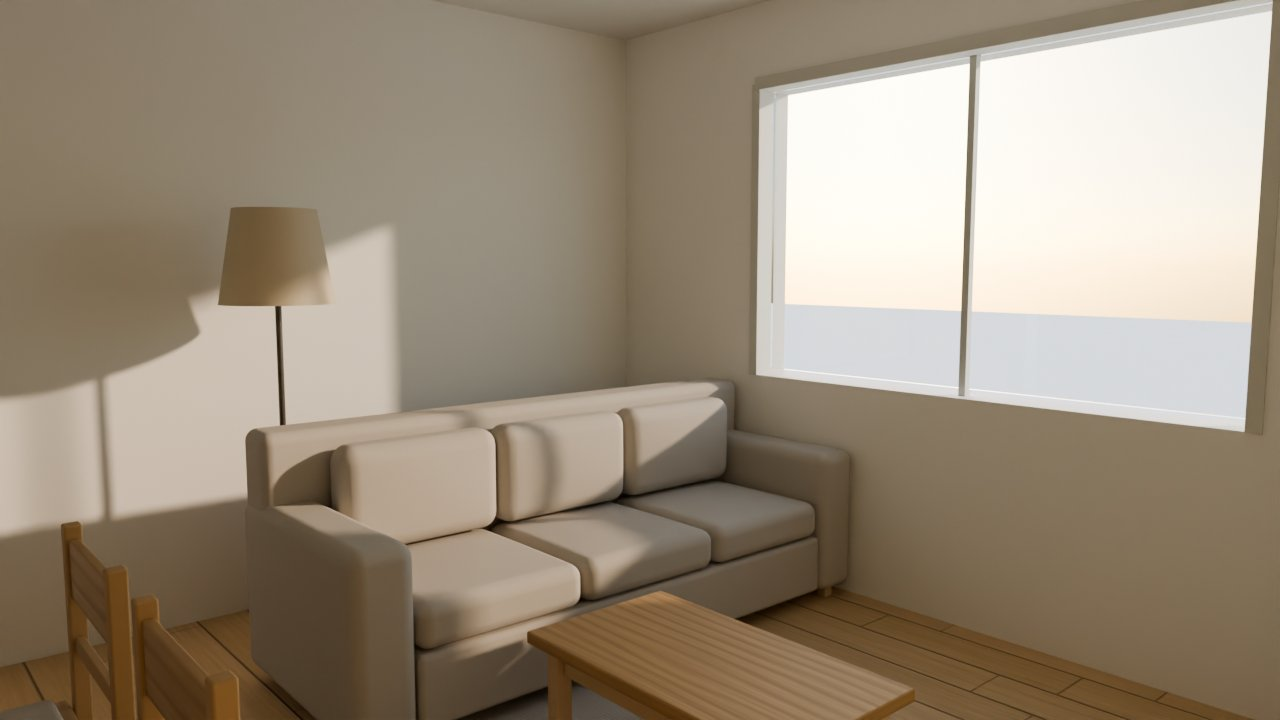
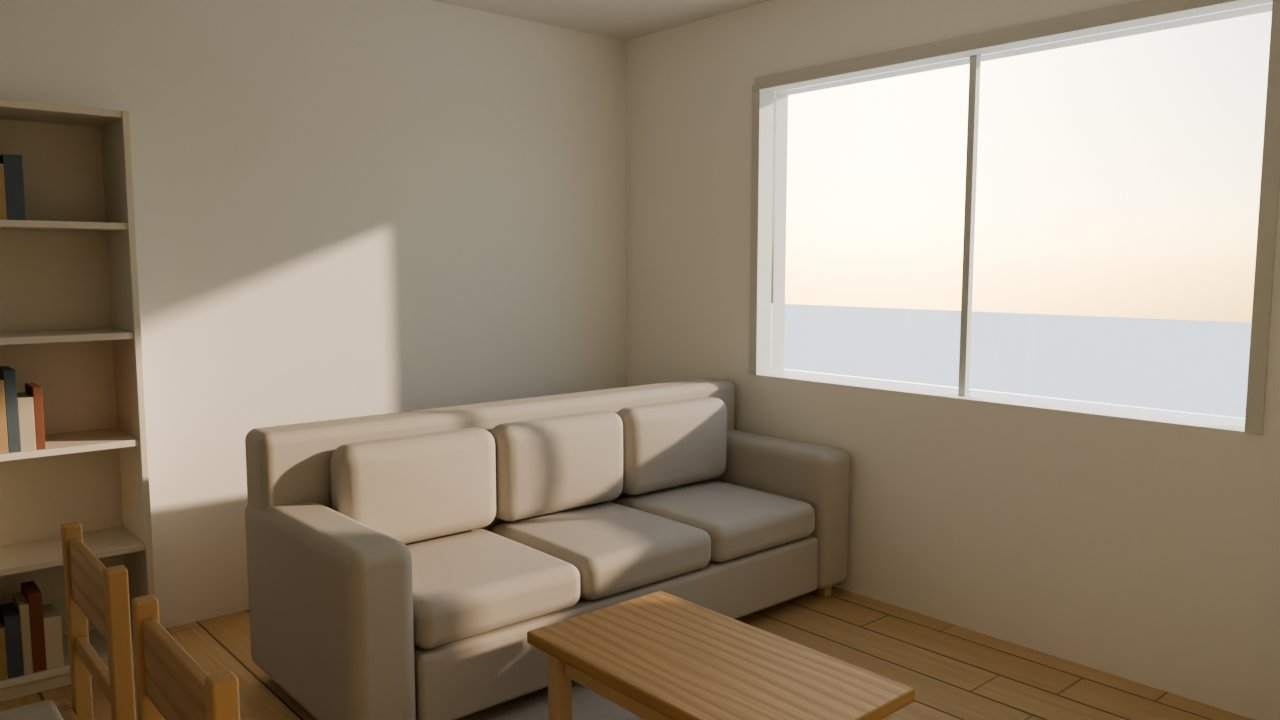
feat: parametric desk, nightstand and bookshelf
Desk with drawer pedestal and modesty panel; new nightstand and bookshelf
kinds built from parts (drawers with bar handles, shelves with rows of
books), registered in types, validation, catalogue and product sources.
The demo plan gains two nightstands and a living-room bookshelf; the four
afternoon demo views are re-rendered in Cycles and WebGL.

Changed region(s): [[0.0, 0.1222, 0.2812, 1.0], [0.2188, 0.5194, 0.25, 0.5806]]

diff --git a/src/lib/furnitureParts.ts b/src/lib/furnitureParts.ts
@@ -124,6 +124,89 @@ export function tableParts(w:number,d:number,h:number):FurniturePart[]{
 }
 
 /**
+ * Desk inside `w × d × h` (seat on the +z side): wood-grain top, a side panel on the left, a
+ * drawer pedestal on the right (three drawers when tall enough, else two, with horizontal bar
+ * handles) and a modesty panel at the back between them, under the top.
+ */
+export function deskParts(w:number,d:number,h:number):FurniturePart[]{
+  const top=.03,under=h-top,panel=.022,door=.018,back=-d/2+.02,face=d/2-.02;
+  const pw=clamp(w*.36,.3,.42),px=w/2-pw/2,body=face-door-.002-back;
+  const parts:FurniturePart[]=[
+    part('Tablero',[w,top,d],0,under,0,{color:'item',surface:'woodgrain',bevel:.006}),
+    part('Costado',[panel,under,face-back],-w/2+panel/2,0,(face+back)/2,{color:'item',bevel:.004}),
+    part('Cajonera',[pw,under,body],px,0,back+body/2,{color:'item',bevel:.004}),
+  ];
+  const modesty=w-panel-pw;
+  if(modesty>.05)parts.push(part('Faldón trasero',[modesty,Math.min(.35,under*.45),.018],(-w/2+panel+w/2-pw)/2,under-Math.min(.35,under*.45),back+.03,{color:'item',bevel:.003}));
+  const y0=.04,span=under-.03-y0,count=span>.45?3:2,drawer=(span-(count-1)*HINGE_GAP)/count;
+  for(let i=0;i<count;i++){
+    const bottom=y0+i*(drawer+HINGE_GAP);
+    parts.push(part(`Cajón ${i+1}`,[pw-2*HINGE_GAP,drawer,door],px,bottom,face-door/2,{color:'item',surface:'woodgrain',bevel:.003}));
+    parts.push(...barHandle(`Tirador ${i+1}`,px,bottom+drawer-.045,Math.min(.16,pw*.5),face,d/2-.002,true));
+  }
+  return parts;
+}
+
+/**
+ * Bedside table inside `w × d × h`: four short wooden feet, a carcass with one or two drawers
+ * (two when the front is taller than 30 cm) carrying horizontal bar handles, and a wood-grain
+ * top that defines the full footprint and height.
+ */
+export function nightstandParts(w:number,d:number,h:number):FurniturePart[]{
+  const top=.025,leg=.035,feet=clamp(h*.2,.06,.14),under=h-top,door=.018,back=-d/2+.01,face=d/2-.02;
+  const bw=w-.02,body=face-door-.002-back,zc=back+body/2;
+  const parts:FurniturePart[]=[
+    part('Tablero',[w,top,d],0,under,0,{color:'item',surface:'woodgrain',bevel:.005}),
+    part('Cuerpo',[bw,under-feet,body],0,feet,zc,{color:'item',bevel:.004}),
+  ];
+  const lx=bw/2-.02-leg/2,lz=body/2-.02-leg/2;
+  for(const x of [-1,1])for(const z of [-1,1])parts.push(part(`Pata ${x} ${z}`,[leg,feet,leg],x*lx,0,zc+z*lz,{color:'wood',bevel:.004}));
+  const span=under-feet-2*HINGE_GAP,count=span>.3?2:1,drawer=(span-(count-1)*HINGE_GAP)/count;
+  for(let i=0;i<count;i++){
+    const bottom=feet+HINGE_GAP+i*(drawer+HINGE_GAP);
+    parts.push(part(`Cajón ${i+1}`,[bw-2*HINGE_GAP,drawer,door],0,bottom,face-door/2,{color:'item',surface:'woodgrain',bevel:.003}));
+    parts.push(...barHandle(`Tirador ${i+1}`,0,bottom+drawer/2,Math.min(.12,bw*.4),face,d/2-.002,true));
+  }
+  return parts;
+}
+
+const BOOK_COLORS=['#7d8a7a','#b9a07a','#5e6b78','#c9bfae','#8c5e4a','#d7cfbf','#46504a'];
+
+/**
+ * Open bookshelf inside `w × d × h`: full-height side panels, a recessed plinth, top, bottom
+ * and evenly spaced shelves about every 36 cm, a thin back panel and rows of books on
+ * alternate shelves (deterministic sizes and colours, always clear of the shelf above).
+ */
+export function bookshelfParts(w:number,d:number,h:number):FurniturePart[]{
+  const panel=.022,plinth=.07,back=.008,inner=w-2*panel,sd=d-.01-back,sz=-d/2+back+sd/2;
+  const parts:FurniturePart[]=[
+    part('Costado izquierdo',[panel,h,d],-w/2+panel/2,0,0,{color:'item',bevel:.003}),
+    part('Costado derecho',[panel,h,d],w/2-panel/2,0,0,{color:'item',bevel:.003}),
+    part('Zócalo',[inner,plinth,.018],0,0,d/2-.04,{color:'item',bevel:.002}),
+    part('Trasera',[inner,h-plinth-panel,back],0,plinth,-d/2+back/2,{color:'item',bevel:0}),
+    part('Base',[inner,panel,sd],0,plinth,sz,{color:'item',bevel:.002}),
+    part('Techo',[inner,panel,sd],0,h-panel,sz,{color:'item',bevel:.002}),
+  ];
+  const free=Math.max(0,h-plinth-2*panel),bays=clamp(Math.round(free/.36),1,8);
+  const gap=(free-(bays-1)*panel)/bays;
+  for(let i=1;i<bays;i++)parts.push(part(`Balda ${i}`,[inner,panel,sd],0,plinth+panel+i*gap+(i-1)*panel,sz,{color:'item',bevel:.002}));
+  let seed=0;
+  for(let bay=0;bay<bays;bay+=2){
+    const floor=plinth+panel+bay*(gap+panel),room=gap-.03;
+    if(room<.12)continue;
+    const end=-inner/2+inner*.62;
+    let x=-inner/2+.02;
+    while(x<end){
+      const k=seed++,thick=.025+(k*7%5)*.006,tall=Math.min(room,.17+(k*5%4)*.03),deep=Math.min(sd-.02,.15+(k*3%3)*.02);
+      if(x+thick>inner/2-.02)break;
+      parts.push(part(`Libro ${bay+1}.${k}`,[thick,tall,deep],x+thick/2,floor,sz+sd/2-.015-deep/2,{color:BOOK_COLORS[k%BOOK_COLORS.length],bevel:.002}));
+      x+=thick;
+    }
+  }
+  return parts;
+}
+
+/**
  * Kitchen island inside `w × d × h`: worktop over the whole footprint, a carcass that leaves a
  * knee space for stools on the +z side, door fronts on the -z (kitchen) side and a recessed plinth.
  */

diff --git a/src/components/Scene3D.tsx b/src/components/Scene3D.tsx
@@ -16,7 +16,7 @@ import { defaultStudio, objectCamera, physicalProperties, studioSubject } from '
 import { textureMapsPending, useTextureLibraryRevision } from '../lib/textureCache';
 import { heightToNormal, surfaceMaps, type SurfaceKind } from '../lib/surfaceTextures';
 import { latheGeometry, physicalBox, type Crown, type Profile } from '../lib/boxGeometry';
-import { bedParts, chairParts, fridgeParts, islandParts, kitchenParts, lampParts, plantPotParts, plantSoilHeight, showerParts, sinkParts, sofaParts, tableParts, toiletParts, wardrobeParts, type FurniturePart } from '../lib/furnitureParts';
+import { bedParts, chairParts, bookshelfParts, deskParts, fridgeParts, islandParts, kitchenParts, lampParts, nightstandParts, plantPotParts, plantSoilHeight, showerParts, sinkParts, sofaParts, tableParts, toiletParts, wardrobeParts, type FurniturePart } from '../lib/furnitureParts';
 import { plantGeometry, seedFrom } from '../lib/plantGeometry';
 const SurfaceContext=createContext<string|undefined>(undefined);
 function textureProps(kind:SurfaceKind){const {map,normalMap,roughnessMap,metalnessMap}=surfaceMaps(kind);return {map,normalMap,roughnessMap,metalnessMap};}
@@ -249,7 +249,10 @@ function FurnitureShape({item,project,selected}:{item:Furniture;project:Project;
   switch(item.kind){
     case 'bed':case 'single-bed':return <Parts parts={bedParts(w,d)} item={item} wood={wood}/>;
     case 'sofa':return <Parts parts={sofaParts(w,d)} item={item} wood={wood}/>;
-    case 'table':case 'desk':return <Parts parts={tableParts(w,d,h)} item={item} wood={wood}/>;
+    case 'table':return <Parts parts={tableParts(w,d,h)} item={item} wood={wood}/>;
+    case 'desk':return <Parts parts={deskParts(w,d,h)} item={item} wood={wood}/>;
+    case 'nightstand':return <Parts parts={nightstandParts(w,d,h)} item={item} wood={wood}/>;
+    case 'bookshelf':return <Parts parts={bookshelfParts(w,d,h)} item={item} wood={wood}/>;
     case 'island':return <Parts parts={islandParts(w,d,h)} item={item} wood={wood}/>;
     case 'chair':return <Parts parts={chairParts(w,d,h)} item={item} wood={wood}/>;
     case 'wardrobe':return <Parts parts={wardrobeParts(w,d,h)} item={item} wood={wood}/>;

diff --git a/src/types.ts b/src/types.ts
@@ -4,7 +4,7 @@ export type FloorFinish = 'oak' | 'ash' | 'walnut' | 'stone' | 'terrazzo' | 'con
 export type Room = { id: string; name: string; kind: RoomKind; x: number; y: number; w: number; d: number; floor: FloorFinish; materialId?: string; vertices?: Point[]; holes?: Point[][] };
 export type Wall = { id: string; a: Point; b: Point; thickness: number; outer?: boolean; materialId?: string };
 export type Opening = { id: string; wallId: string; kind: 'door' | 'window'; offset: number; width: number; height: number; sill: number };
-export type FurnitureKind = 'sofa' | 'bed' | 'single-bed' | 'table' | 'chair' | 'wardrobe' | 'desk' | 'kitchen' | 'island' | 'sink' | 'fridge' | 'toilet' | 'shower' | 'plant' | 'lamp' | 'rug' | 'model';
+export type FurnitureKind = 'sofa' | 'bed' | 'single-bed' | 'table' | 'chair' | 'wardrobe' | 'desk' | 'nightstand' | 'bookshelf' | 'kitchen' | 'island' | 'sink' | 'fridge' | 'toilet' | 'shower' | 'plant' | 'lamp' | 'rug' | 'model';
 export type ModelFinish = { color: string; roughness: number; metalness: number; materialName?: string; materialId?: string };
 export type Furniture = { id: string; kind: FurnitureKind; name: string; x: number; y: number; w: number; d: number; h: number; rotation: number; color: string; unitPrice?: number; assetId?: string; productId?: string; productSource?: ProductAttribution; materialId?: string; module?: ModuleSettings; modelData?: string; modelUpAxis?: 'Y' | 'Z' | 'X'; modelElevation?: number; modelOffsetX?: number; modelOffsetZ?: number; modelFinish?: ModelFinish; modelFinishes?: ModelFinish[] };
 export type Palette = { walls: string; accent: string; wood: string; textile: string; metal: string };

diff --git a/src/__tests__/furniture-parts.test.ts b/src/__tests__/furniture-parts.test.ts
@@ -1,5 +1,5 @@
 import { describe, expect, it } from 'vitest';
-import { FACE_GAP, bedParts, chairParts, cushionCount, fridgeParts, fronts, islandParts, kitchenParts, lampParts, partsBounds, plantPotParts, plantSoilHeight, showerParts, sinkParts, sofaParts, tableParts, toiletParts, wardrobeParts } from '../lib/furnitureParts';
+import { FACE_GAP, bedParts, bookshelfParts, chairParts, cushionCount, deskParts, fridgeParts, fronts, islandParts, kitchenParts, lampParts, nightstandParts, partsBounds, plantPotParts, plantSoilHeight, showerParts, sinkParts, sofaParts, tableParts, toiletParts, wardrobeParts } from '../lib/furnitureParts';
 import { plantGeometry, seedFrom } from '../lib/plantGeometry';
 
 const overlapArea=(a:{position:number[];size:number[]},b:{position:number[];size:number[]},axis:number)=>{
@@ -50,6 +50,9 @@ describe('bedParts', () => {
 const builders={
   wardrobe:[wardrobeParts,[[1.5,.62,2.25],[.6,.6,2],[3,.65,2.4]]],
   table:[tableParts,[[1.5,.85,.75],[.9,.5,.4],[1.2,.6,.76]]],
+  desk:[deskParts,[[1,.5,.75],[1.4,.7,.76],[.9,.5,.74],[1.6,.8,.6]]],
+  nightstand:[nightstandParts,[[.45,.38,.52],[.6,.45,.6],[.35,.3,.4]]],
+  bookshelf:[bookshelfParts,[[.8,.32,1.9],[1.2,.4,2.2],[.6,.25,.9],[.4,.3,.35]]],
   island:[islandParts,[[1.5,.8,.9],[2.4,1,.9]]],
   chair:[chairParts,[[.52,.55,.85],[.45,.5,.8]]],
   kitchen:[kitchenParts,[[2.6,.65,.9],[1.2,.6,.9]]],

diff --git a/src/data/defaultProject.ts b/src/data/defaultProject.ts
@@ -53,6 +53,8 @@ export const demoProject: Project = {
     furniture('kitchen-1','kitchen','Cocina lineal',1.43,5.62,2.7,.65,.9,180,'#ece7dd'),
     furniture('fridge-1','fridge','Frigorífico',3.38,5.61,.65,.65,1.9,180,'#eeeae4'),
     furniture('bed-main','bed','Cama doble',8.7,1.42,1.6,2,.55,0,'#e0d5c4'),
+    furniture('night-main-l','nightstand','Mesilla izquierda',7.65,.62,.4,.36,.5,0,'#d3bb98'),
+    furniture('night-main-r','nightstand','Mesilla derecha',9.7,.62,.4,.36,.5,0,'#d3bb98'),
     furniture('ward-main','wardrobe','Armario principal',7.38,2.6,1,.6,2.15,180,'#e5e0d6'),
     furniture('bed-2','single-bed','Cama individual',5.14,1.36,.9,1.9,.55,0,'#e3d8cb'),
     furniture('desk-2','desk','Escritorio',6.15,.45,1,.5,.75,0,'#c8a781'),
@@ -63,6 +65,7 @@ export const demoProject: Project = {
     furniture('sink-2','sink','Lavabo 2',8.705,5.03,.6,.5,.84,270,'#ecece8'),
     furniture('toilet-2','toilet','Inodoro 2',8.755,5.56,.4,.6,.65,270,'#f7f6f3'),
     furniture('shower-2','shower','Ducha 2',9.51,5.46,.8,.9,2,180,'#f0eeeb'),
+    furniture('shelf-1','bookshelf','Estantería',.27,2.9,.8,.32,1.9,270,'#e6e0d5'),
     furniture('plant-1','plant','Ficus',3.6,.45,.5,.5,1.2,0,'#5f8261'),
   ],
 };

diff --git a/src/lib/validation.ts b/src/lib/validation.ts
@@ -10,7 +10,7 @@ const material=(a:unknown)=>a===undefined||(typeof a==='string'&&a.length<=120);
 const vector=(a:unknown)=>Array.isArray(a)&&a.length===3&&a.every(n=>num(n,-500,500));
 const kinds:Set<RoomKind>=new Set(['living','bedroom','bathroom','hall']);
 const finishes:Set<FloorFinish>=new Set(['oak','ash','walnut','stone','terrazzo','concrete']);
-const furnitureKinds:Set<FurnitureKind>=new Set(['sofa','bed','single-bed','table','chair','wardrobe','desk','kitchen','island','sink','fridge','toilet','shower','plant','lamp','rug','model']);
+const furnitureKinds:Set<FurnitureKind>=new Set(['sofa','bed','single-bed','table','chair','wardrobe','desk','nightstand','bookshelf','kitchen','island','sink','fridge','toilet','shower','plant','lamp','rug','model']);
 const validModelFinish=(f:unknown)=>object(f)&&color(f.color)&&num(f.roughness,0,1)&&num(f.metalness,0,1)&&material(f.materialId)&&(f.materialName===undefined||(typeof f.materialName==='string'&&f.materialName.length<=120));
 /** Strict structural validation; geometric feasibility is reported separately. */
 export function isProject(a:unknown):a is Project{

diff --git a/src/data/catalog.ts b/src/data/catalog.ts
@@ -9,6 +9,8 @@ export const catalog: CatalogItem[] = [
   {kind:'single-bed', name:'Cama individual',w:.9,d:1.9,h:.55,color:'#e2d7ca',icon:'▣',category:'Dormitorio'},
   {kind:'wardrobe', name:'Armario',w:1.5,d:.62,h:2.25,color:'#e4dfd4',icon:'▥',category:'Dormitorio'},
   {kind:'desk', name:'Escritorio',w:1.2,d:.6,h:.76,color:'#c5a27b',icon:'▤',category:'Dormitorio'},
+  {kind:'nightstand', name:'Mesilla de noche',w:.45,d:.38,h:.52,color:'#d6bf9e',icon:'▭',category:'Dormitorio'},
+  {kind:'bookshelf', name:'Estantería',w:.8,d:.32,h:1.9,color:'#e3ddd2',icon:'☰',category:'Salón'},
   {kind:'kitchen', name:'Módulo de cocina',w:2.6,d:.65,h:.9,color:'#ede9e1',icon:'▤',category:'Cocina'},
   {kind:'island', name:'Isla de cocina',w:1.5,d:.8,h:.9,color:'#e8e4dc',icon:'▦',category:'Cocina'},
   {kind:'sink', name:'Mueble lavabo',w:.8,d:.5,h:.85,color:'#ede9e1',icon:'◍',category:'Baño'},

diff --git a/src/data/productCatalog.ts b/src/data/productCatalog.ts
@@ -13,8 +13,8 @@ export type ProductSource = {
   modelUrl?: string;
 };
 export const productSources: ProductSource[] = [
-  ['sofa','Salón'],['table','Salón'],['chair','Salón'],['rug','Salón'],
-  ['bed','Dormitorio'],['single-bed','Dormitorio'],['wardrobe','Dormitorio'],['desk','Dormitorio'],
+  ['sofa','Salón'],['table','Salón'],['chair','Salón'],['rug','Salón'],['bookshelf','Salón'],
+  ['bed','Dormitorio'],['single-bed','Dormitorio'],['wardrobe','Dormitorio'],['desk','Dormitorio'],['nightstand','Dormitorio'],
   ['kitchen','Cocina'],['island','Cocina'],['fridge','Cocina'],
   ['sink','Baño'],['toilet','Baño'],['shower','Baño'],
   ['plant','Decoración'],['lamp','Decoración'],

diff --git a/PROJECT_STATUS.md b/PROJECT_STATUS.md
@@ -20,8 +20,9 @@ Repositorio: `alexisalbaceterodriguez-cmd/project-house-rendering`; rama de refe
 - **Mobiliario paramétrico por piezas y luz diurna en recintos sin ventana (20/11):** `src/lib/furnitureParts.ts` construye, dentro de la huella y la altura del plano, sofá (zócalo, patas, brazos, cojines de asiento y respaldo según anchura con holgura de 1 cm), cama (canapé, patas, colchón, cabecero, almohadas, edredón), armario (carcasa, puertas con tiradores), mesa, silla, isla, cocina lineal (módulos, encimera, placa, fregadero, grifo), frigorífico, inodoro (taza torneada, cisterna, asiento, tapa, pulsador), mueble de lavabo suspendido (cajones, lavabo sobre encimera, grifo), ducha (plato, desagüe, mamparas de vidrio, columna, rociador), lámpara de pie (pantalla con rol `lampshade`) y maceta; las piezas torneadas usan `latheGeometry` (`boxGeometry.ts`) y el follaje de la planta (`plantGeometry.ts`) es determinista por id y se recorta a la huella y la altura. El GLB del render se exporta del mismo grafo, así que Cycles recibe las mismas mallas. Proyecto de ejemplo: los muebles contra muro miran hacia la estancia (los proyectos guardados conservan sus giros) y ambos baños se redistribuyen para que la puerta abra libre (ducha al fondo). **Recintos sin ventana:** los presets tarde/día envían `lighting.litRooms` (estancias sin ninguna ventana propia, 4 W/m², validadas contra los ids de recintos en el contrato) y Blender añade una luz de área de techo a 5000 K; noche y estudio mandan `[]`. En la demo se encienden vestíbulo (24 W) y baños (13 W): el baño ya no sale negro. Demos misma cámara Cycles/WebGL (tarde, 256 muestras, RTX 5070 OptiX): salón 9,42 s / 10,45 s, luminancia 0,535; dormitorio 10,04 s / 11,06 s, 0,400; baño 1 16,42 s / 17,66 s, 0,637; 0 % recortado en las tres (salón y dormitorio renderizados antes de la luz del vestíbulo). Validación local: `tsc -b`, 173 unitarias (nuevas `furniture-parts.test.ts`: piezas dentro de la envolvente; `box-geometry` torneado; `render-package` litRooms), 23 Python del motor, build y E2E `cycles-package`, `product`, `studio-render` y editor (25/25; `cycles-package` repetido tras litRooms). Publicado en `bc8292624872ca7b5e518740c9daa86cc1bac35f`; CI [44802683703](https://github.com/alexisalbaceterodriguez-cmd/project-house-rendering/actions/runs/44802683703) (job 136518610197) **success**: 173 unitarias, 23 Python (humo Blender omitido sin Blender) y 42/42 E2E. Límites: piezas geométricas simplificadas, sin simulación de tejido, sin translucidez de hojas ni pantallas, texturas sintéticas; no es fidelidad fotográfica.
 - **Hojas y pantallas translúcidas en Cycles (20/11):** `atelier_render.py` combina los materiales `atelier:leaf` y `atelier:lampshade` con un BSDF Translucent de su color base (enlaces de textura incluidos), sin tocar geometría ni GLB: la hoja **añade** transmisión al 60 % del color base sobre su reflexión y la pantalla **mezcla** un 40 % hacia transmisión (una tela blanca no supera 1). Primer intento descartado tras medirlo: mezclar un 30 % también en hojas oscurecía el follaje un 14 % con luz lateral. A/B misma cámara y escena (primer plano de la planta junto a la ventana, tarde): verde medio del follaje 0,125 → 0,161 (+29 %) frente a sin translucidez; la pantalla nocturna sigue brillando. `result.json` informa `materials.translucent` (3 en el salón: dos tonos de hoja + pantalla) y la prueba de humo con Blender lo comprueba con una pieza `atelier:leaf` nueva en el fixture. La planta del ejemplo pasa a x 3,6 / y 0,45, junto a la ventana: tras girar el sofá quedaba solapada 12 cm con él. Demos del salón re-renderizadas (distribuidor iluminado + translucidez): tarde 13,73 s / 15,06 s, luminancia 0,546; noche 15,59 s / 16,88 s, 0,566; 0 % recortado. 23 Python en local con humo Blender real. Publicado en 33e6e4aad7a675ce44d5442122a5afd39f3ccf2b; CI run [44804341915](https://github.com/alexisalbaceterodriguez-cmd/project-house-rendering/actions/runs/44804341915) (job 136524275669) **success**: 173 unitarias, 23 del motor y 42 E2E. Límite: BSDF de superficie fina, no dispersión subsuperficial medida.
 - **Cocina-comedor y plano de ejemplo corregido (20/11):** `kitchenParts` recorta la encimera en cuatro tramos alrededor de una cubeta de acero bajo encimera de 18 cm (fondo, cuatro paredes y desagüe torneado) y rebaja el módulo inferior bajo ella; la placa lleva cuatro zonas de inducción (anillos torneados) y el grifo es un cuerpo torneado con base, caño, boquilla y maneta lateral; todo dentro de la huella (envolvente y sin caras coplanarias en `furniture-parts.test.ts`). Al encuadrar la cocina aparecieron dos fallos reales del ejemplo: la puerta de entrada (muro sur, x 2,07–2,93) quedaba tapada por la cocina lineal (x 0,08–2,78) y la cama doble invadía 12 cm el armario. La entrada pasa al muro oeste del salón (y 4,1–4,9) y la cama a x 8,7; la nueva `demo-project.test.ts` exige 45 cm libres a ambos lados de cada puerta y ningún mueble solapado (salvo sillas bajo mesa). El ejemplo gana cuatro sillas de comedor y una ventana de 1 × 1 m sobre el fregadero (alféizar 1,10 m): sin ella la cocina, a 5 m de la única ventana, quedaba en penumbra (luminancia media 0,19 frente a 0,33). Re-renderizadas todas las demos con la misma cámara Cycles/WebGL (salón tarde y noche, dormitorio con luz del distribuidor y cámara nueva, baño y cocina-comedor nueva). Comprobado en local: 175 unitarias, build, smoke `cycles-package`. Commit `42057bda6339a58787768809c97def97a5c0c130`, CI [44806485884](https://github.com/alexisalbaceterodriguez-cmd/project-house-rendering/actions/runs/44806485884) (job 136531725477) completed/success: 175 unitarias, 23 pruebas Python del motor (humo Blender omitido) y 42 E2E Chromium. Límite visto: en la captura WebGL los metales (tiradores, grifo, cubeta) salían casi negros; en Cycles se leen como acero (corregido en el punto siguiente).
-- **Metales del visor WebGL calibrados (20/11):** la causa no era la carga del HDR: con iluminación día/noche el visor no tenía mapa de entorno (el `studio.hdr` solo se montaba en modo estudio; ninguna petición del HDR en la escena completa), así que un metal (metalness 0,7) no tenía nada que reflejar. La escena completa monta ahora el mismo HDR local como luz de entorno (0,28 de día, 0,08 de noche), rebaja ambiente y hemisférica (0,65/0,6 → 0,35/0,4 de día) para no lavar los difusos y da a los metales `envMapIntensity` 2,2. Misma cámara de la cocina-comedor: tiradores, grifo y cubeta se leen ahora como acero gris, como en Cycles; la luminancia media de la vista WebGL sube de 0,644 a 0,724 (paredes algo más blancas, más cerca del blanco cálido de Cycles). Las cuatro vistas `-webgl.jpg` de tarde se regeneraron con la misma cámara y escena (el render Cycles no cambia: el paquete es idéntico y el motor lo reutiliza). Unitarias (175), build y smoke `cycles-package` + `studio-render` (6/6) en local. Commit y CI: __SHA4__, __CI4__. Límite: el entorno es el HDR de estudio, no el exterior real de la vivienda; los reflejos son plausibles, no físicos.
-- **Siguiente tarea exacta:** texturas escaneadas CC0 donde aporten realismo (suelo de roble y tejido de sofá primero), que requieren permiso del usuario para la descarga; mientras tanto, completar piezas paramétricas pendientes (muebles altos opcionales de cocina cuando la altura del objeto lo permita, mesilla y estantería) con sus pruebas de envolvente y comparación visor/Cycles con la misma cámara.
+- **Metales del visor WebGL calibrados (20/11):** la causa no era la carga del HDR: con iluminación día/noche el visor no tenía mapa de entorno (el `studio.hdr` solo se montaba en modo estudio; ninguna petición del HDR en la escena completa), así que un metal (metalness 0,7) no tenía nada que reflejar. La escena completa monta ahora el mismo HDR local como luz de entorno (0,28 de día, 0,08 de noche), rebaja ambiente y hemisférica (0,65/0,6 → 0,35/0,4 de día) para no lavar los difusos y da a los metales `envMapIntensity` 2,2. Misma cámara de la cocina-comedor: tiradores, grifo y cubeta se leen ahora como acero gris, como en Cycles; la luminancia media de la vista WebGL sube de 0,644 a 0,724 (paredes algo más blancas, más cerca del blanco cálido de Cycles). Las cuatro vistas `-webgl.jpg` de tarde se regeneraron con la misma cámara y escena (el render Cycles no cambia: el paquete es idéntico y el motor lo reutiliza). Unitarias (175), build y smoke `cycles-package` + `studio-render` (6/6) en local. Commit y CI: `f84a271` (f84a2715b435ce14243c9f6a4abebabbaaff044f), run 44807850725 (job 136536426210) **success**: 175 unitarias, 23 Python y 42 E2E. Límite: el entorno es el HDR de estudio, no el exterior real de la vivienda; los reflejos son plausibles, no físicos.
+- **Escritorio, mesilla y estantería paramétricos (20/11):** `deskParts` (tablero veteado, costado, cajonera de 2–3 cajones con tiradores horizontales y faldón trasero), nuevo tipo `nightstand` (`nightstandParts`: patas de madera, cuerpo, 1–2 cajones y tablero) y nuevo tipo `bookshelf` (`bookshelfParts`: costados, zócalo retranqueado, trasera, baldas cada ~36 cm y filas de libros deterministas en baldas alternas, siempre por debajo de la balda superior). Registrados en tipos, validación, catálogo (Dormitorio/Salón) y fuentes de producto como geometría paramétrica original. El plano demo añade dos mesillas junto a la cama doble y una estantería en el muro oeste del salón (holguras de puertas y no solape comprobados por `demo-project.test.ts`). Pruebas de envolvente sin caras coplanarias para 4 escritorios, 3 mesillas y 4 estanterías (52 en `furniture-parts`), 186 unitarias, build y smoke `cycles-package` + `editor` (2/2) en local. Comparación visor/Cycles con la misma cámara (estantería desde el comedor, mesilla en primer plano): misma geometría, cajones, tiradores y libros en ambos. Las cuatro vistas demo de tarde de `render-engine/demo/` se regeneraron con el plano nuevo (Cycles 13,7–21,3 s en OptiX, 0 % recortado); la nocturna del salón es anterior. Commit y CI: __SHA5__, __CI5__. Límite: los libros son volúmenes de color, sin lomos impresos ni textura.
+- **Siguiente tarea exacta:** texturas escaneadas CC0 donde aporten realismo (suelo de roble y tejido de sofá primero), que requieren permiso del usuario para la descarga; mientras tanto, muebles altos opcionales de cocina cuando la altura del objeto lo permita (módulo propio con altura de colgado, sin alterar la envolvente de la bajera) con pruebas de envolvente y comparación visor/Cycles con la misma cámara.
 
 ## Estado anterior — presentación de interiores, 20/11/2026
 

diff --git a/render-engine/README.md b/render-engine/README.md
@@ -95,13 +95,13 @@ Calidades: `draft` 64, `standard` 256, `high` 1024 muestras con denoiser OpenIma
 
 | Preset | Imagen | Render | Total | Luminancia media | Recortado |
 |---|---|---|---|---|---|
-| Tarde (piezas, distribuidor iluminado, hojas y pantalla translúcidas) | `nordic-living-afternoon-cycles.jpg` vs `-webgl.jpg` | 13,74 s | 15,24 s | 0,555 | 0 % (antes 11,3 % sin window pull) |
-| Tarde, dormitorio principal | `nordic-bedroom-afternoon-cycles.jpg` vs `-webgl.jpg` | 14,46 s | 15,91 s | 0,494 | 0 % |
-| Tarde, baño 1 (sin ventana, luz de techo) | `nordic-bathroom-afternoon-cycles.jpg` vs `-webgl.jpg` | 20,86 s | 22,33 s | 0,637 | 0 % |
-| Tarde, cocina-comedor (ventana sobre el fregadero) | `nordic-kitchen-afternoon-cycles.jpg` vs `-webgl.jpg` | 15,76 s | 17,28 s | 0,329 | 0 % |
+| Tarde (piezas, distribuidor iluminado, hojas y pantalla translúcidas) | `nordic-living-afternoon-cycles.jpg` vs `-webgl.jpg` | 13,68 s | 15,53 s | 0,541 | 0 % (antes 11,3 % sin window pull) |
+| Tarde, dormitorio principal | `nordic-bedroom-afternoon-cycles.jpg` vs `-webgl.jpg` | 14,48 s | 16,24 s | 0,493 | 0 % |
+| Tarde, baño 1 (sin ventana, luz de techo) | `nordic-bathroom-afternoon-cycles.jpg` vs `-webgl.jpg` | 21,26 s | 22,99 s | 0,637 | 0 % |
+| Tarde, cocina-comedor (ventana sobre el fregadero) | `nordic-kitchen-afternoon-cycles.jpg` vs `-webgl.jpg` | 15,94 s | 17,67 s | 0,314 | 0 % |
 | Noche | `nordic-living-night-cycles.jpg` | 15,73 s | 17,24 s | 0,556 | 0 % |
 
-1280 × 720, 256 muestras, OptiX en RTX 5070 Laptop, Blender 4.5.16 LTS. La mesa de centro, la lámpara y el giro del sofá de la demo se añadieron en tiempo de ejecución; no forman parte del proyecto por defecto. Desde el 20/11 el sofá, la cama, la mesa, la silla y el armario tienen aristas redondeadas dentro de sus medidas exteriores (`src/lib/boxGeometry.ts`); el GLB lleva la misma malla que el visor. El mobiliario se compone de piezas paramétricas (`src/lib/furnitureParts.ts`): zócalo, brazos, respaldo y cojines de asiento y respaldo separados con holgura de 1 cm y tapa abombada; cabecero, canapé, colchón, almohadas y edredón dentro de la huella del plano. También armario (puertas con holgura, tiradores y zócalo), mesa, isla, silla, cocina lineal (muebles bajos, encimera recortada alrededor de una cubeta de acero bajo encimera con desagüe, placa de inducción con cuatro zonas marcadas y grifo torneado con caño sobre la cubeta; sin muebles altos, porque la huella del plano mide 0,9 m de alto), frigorífico, inodoro, mueble de lavabo suspendido con lavabo de sobre encimera, ducha con mampara y rociador, lámpara de pie y maceta; las piezas torneadas (taza, lavabo, grifería, pantalla, maceta) son sólidos de revolución (`latheGeometry`) y la planta tiene follaje generado de forma determinista a partir del id del objeto (`src/lib/plantGeometry.ts`), siempre dentro de la huella y la altura del plano. El frente de cada pieza mira a +z con giro 0; el proyecto de ejemplo gira los muebles apoyados en muros y=fondo o x=0 para que miren a la sala, pero los proyectos guardados conservan sus giros. Todas las cifras incluyen ya la luz de techo del distribuidor y la translucidez (el render pasó de unos 9–11 s a 14–21 s). El 20/11 se corrigieron dos fallos del plano de ejemplo que comprueba `src/__tests__/demo-project.test.ts` (ninguna puerta con muebles a menos de 45 cm y ningún mueble solapado salvo sillas bajo mesa): la puerta de entrada quedaba tapada por la cocina lineal y pasó al muro oeste del salón (y 4,1–4,9), y la cama doble invadía 12 cm el armario y se desplazó a x 8,7, con nueva cámara del dormitorio. El ejemplo gana cuatro sillas de comedor y una ventana de 1 × 1 m sobre el fregadero (alféizar 1,10 m), sin la cual la cocina, a 5 m de la única ventana del salón, quedaba en penumbra (luminancia media 0,19). En el salón asoman ahora las sillas en el borde izquierdo. Las vistas `-webgl.jpg` de tarde se regeneraron tras dar entorno HDR al visor: antes los metales (tiradores, grifo, cubeta) salían casi negros. La planta del ejemplo se movió junto a la ventana (x 3,6, y 0,45) porque tras girar el sofá quedaba solapada 12 cm con él; queda fuera de este encuadre. Siguen siendo volúmenes paramétricos: no hay costuras, arrugas ni caída de tela simuladas, y la translucidez es un BSDF de superficie fina, no dispersión subsuperficial medida.
+1280 × 720, 256 muestras, OptiX en RTX 5070 Laptop, Blender 4.5.16 LTS. La mesa de centro, la lámpara y el giro del sofá de la demo se añadieron en tiempo de ejecución; no forman parte del proyecto por defecto. Desde el 20/11 el proyecto por defecto incluye dos mesillas junto a la cama doble y una estantería en el muro oeste del salón, y las cuatro vistas de tarde (Cycles y WebGL) se regeneraron con ellas; la vista nocturna del salón es anterior. Desde el 20/11 el sofá, la cama, la mesa, la silla y el armario tienen aristas redondeadas dentro de sus medidas exteriores (`src/lib/boxGeometry.ts`); el GLB lleva la misma malla que el visor. El mobiliario se compone de piezas paramétricas (`src/lib/furnitureParts.ts`): zócalo, brazos, respaldo y cojines de asiento y respaldo separados con holgura de 1 cm y tapa abombada; cabecero, canapé, colchón, almohadas y edredón dentro de la huella del plano. También armario (puertas con holgura, tiradores y zócalo), mesa, isla, silla, cocina lineal (muebles bajos, encimera recortada alrededor de una cubeta de acero bajo encimera con desagüe, placa de inducción con cuatro zonas marcadas y grifo torneado con caño sobre la cubeta; sin muebles altos, porque la huella del plano mide 0,9 m de alto), escritorio con cajonera, mesilla de noche, estantería con libros, frigorífico, inodoro, mueble de lavabo suspendido con lavabo de sobre encimera, ducha con mampara y rociador, lámpara de pie y maceta; las piezas torneadas (taza, lavabo, grifería, pantalla, maceta) son sólidos de revolución (`latheGeometry`) y la planta tiene follaje generado de forma determinista a partir del id del objeto (`src/lib/plantGeometry.ts`), siempre dentro de la huella y la altura del plano. El frente de cada pieza mira a +z con giro 0; el proyecto de ejemplo gira los muebles apoyados en muros y=fondo o x=0 para que miren a la sala, pero los proyectos guardados conservan sus giros. Todas las cifras incluyen ya la luz de techo del distribuidor y la translucidez (el render pasó de unos 9–11 s a 14–21 s). El 20/11 se corrigieron dos fallos del plano de ejemplo que comprueba `src/__tests__/demo-project.test.ts` (ninguna puerta con muebles a menos de 45 cm y ningún mueble solapado salvo sillas bajo mesa): la puerta de entrada quedaba tapada por la cocina lineal y pasó al muro oeste del salón (y 4,1–4,9), y la cama doble invadía 12 cm el armario y se desplazó a x 8,7, con nueva cámara del dormitorio. El ejemplo gana cuatro sillas de comedor y una ventana de 1 × 1 m sobre el fregadero (alféizar 1,10 m), sin la cual la cocina, a 5 m de la única ventana del salón, quedaba en penumbra (luminancia media 0,19). En el salón asoman ahora las sillas en el borde izquierdo. Las vistas `-webgl.jpg` de tarde se regeneraron tras dar entorno HDR al visor: antes los metales (tiradores, grifo, cubeta) salían casi negros. La planta del ejemplo se movió junto a la ventana (x 3,6, y 0,45) porque tras girar el sofá quedaba solapada 12 cm con él; queda fuera de este encuadre. Siguen siendo volúmenes paramétricos: no hay costuras, arrugas ni caída de tela simuladas, y la translucidez es un BSDF de superficie fina, no dispersión subsuperficial medida.
 
 ## Seguridad
 

diff --git a/ROADMAP.md b/ROADMAP.md
@@ -112,7 +112,7 @@ Motor local independiente en [`render-engine/`](render-engine/README.md): el edi
 | R9 | Ediciones IA controladas que preservan la arquitectura | Pendiente |
 | R10 | Presentación cinematográfica (recorridos, variantes) | Pendiente |
 
-Hecho (20/11): aristas biseladas en sofá, cama, mesa, silla y armario; mobiliario paramétrico por piezas (tapicería de sofá y cama, armario, mesa, silla, isla, cocina, frigorífico, inodoro, lavabo, ducha, lámpara y planta, con piezas torneadas) compartido por visor y GLB dentro de la huella del plano; luz de techo diurna en recintos sin ventana (`lighting.litRooms`); hojas y pantallas translúcidas en Cycles; cocina con cubeta bajo encimera, placa con zonas y grifo torneado, y demo de cocina-comedor; metales del visor WebGL calibrados con el HDR local como luz de entorno en la escena completa. Siguiente paso: texturas escaneadas CC0 donde aporten realismo (con permiso de descarga) y más piezas paramétricas.
+Hecho (20/11): aristas biseladas en sofá, cama, mesa, silla y armario; mobiliario paramétrico por piezas (tapicería de sofá y cama, armario, mesa, silla, isla, cocina, frigorífico, inodoro, lavabo, ducha, lámpara y planta, con piezas torneadas) compartido por visor y GLB dentro de la huella del plano; luz de techo diurna en recintos sin ventana (`lighting.litRooms`); hojas y pantallas translúcidas en Cycles; cocina con cubeta bajo encimera, placa con zonas y grifo torneado, y demo de cocina-comedor; metales del visor WebGL calibrados con el HDR local como luz de entorno en la escena completa; escritorio con cajonera, mesilla y estantería con libros como piezas paramétricas nuevas. Siguiente paso: texturas escaneadas CC0 donde aporten realismo (con permiso de descarga) y muebles altos de cocina.
 
 ### Arquitectura común y secuencia
 
